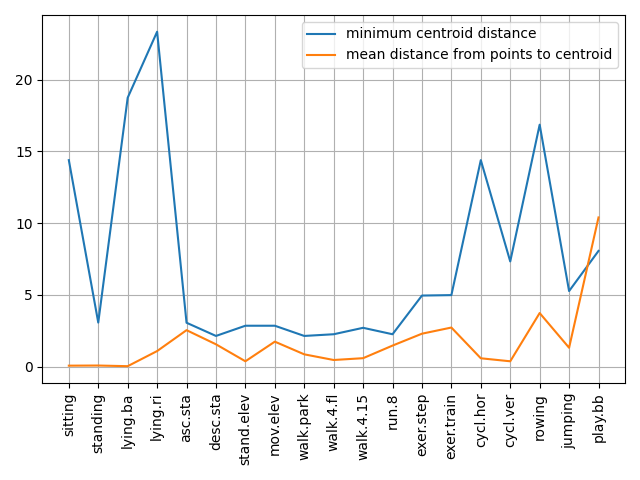
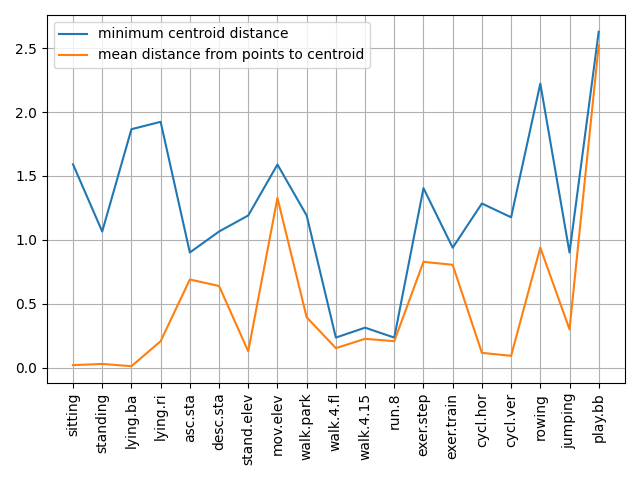
lab04: accuracy k-means

diff --git a/LAB04/data_visualization.py b/LAB04/data_visualization.py
@@ -20,6 +20,7 @@ from sklearn.preprocessing import  StandardScaler
 from sklearn.decomposition import PCA
 import sklearn.cluster as sk
 from sklearn.cluster import KMeans
+from sklearn.metrics import accuracy_score
 cm = plt.get_cmap('gist_rainbow')
 line_styles=['solid','dashed','dotted']
 #pd.set_option('display.precision', 3)
@@ -45,6 +46,7 @@ sensNames=[
         'LL_xacc', 'LL_yacc', 'LL_zacc', 
         'LL_xgyro','LL_ygyro','LL_zgyro',
         'LL_xmag', 'LL_ymag', 'LL_zmag']
+
 actNames=[
     'sitting',  # 1
     'standing', # 2
@@ -94,7 +96,8 @@ activities=list(range(1,19)) #list of indexes of activities to plot
 Num_activities=len(activities)
 NAc=19 # total number of activities
 actNamesSub=[actNamesShort[i-1] for i in activities] # short names of the selected activities
-sensors=list(range(45)) # list of sensors
+#sensors=list(range(45)) # list of sensors
+sensors = [3,4,5,6,7,8,12,13,14,15,16,17,21,22,23,24,25,26,30,31,32,33,34,35,39,40,41,42,43,44] # no acc sensors
 sensNamesSub=[sensNames[i] for i in sensors] # names of selected sensors
 Nslices=12 # number of slices to plot
 NtotSlices=60 #total number of slices
@@ -111,16 +114,16 @@ X_train = np.zeros([N_tr, len(sensors)])
 y_tr =np.zeros(N_tr)
 N_te = (NtotSlices - nTrainSlices) * NAc * 5
 X_test = np.zeros([N_te, len(sensors)])
+y_te =np.zeros(N_te)
 iter_tr = 0
 iter_te = 0
 for i in range(1, NAc+1):
     activities = [i]
     # Training Set
     x_tr=myFn.generateDF(filedir,sensNamesSub,sensors, patients,activities,slicesTrain)
-    x_tr = myFn.butter_lowpass_filter(x_tr, 1.2, 20, 2)
+    x_tr = myFn.butter_lowpass_filter(x_tr, 0.8, 25, 4)
     x_tr = myFn.averageSampling(x_tr, 25)
-    y = x_tr['activity']
-    y_tr[iter_tr:len(x_tr)+iter_tr] = y
+    y_tr[iter_tr:len(x_tr)+iter_tr] = i - 1
     x_tr=x_tr.drop(columns=['activity'])
     x_tr = x_tr.values
     X_train[iter_tr:len(x_tr)+iter_tr, :] = x_tr
@@ -128,46 +131,38 @@ for i in range(1, NAc+1):
     # Test set
     x_te=myFn.generateDF(filedir,sensNamesSub,sensors, patients,activities,slicesTest)
     x_te=x_te.drop(columns=['activity'])
+    x_te = myFn.butter_lowpass_filter(x_te, 0.8, 25, 4)
     x_te = myFn.averageSampling(x_te, 25)
+    y_te[iter_te:len(x_te)+iter_te] = i - 1
     x_te = x_te.values
     X_test[iter_te:len(x_te)+iter_te, :] = x_te
     iter_te += len(x_te)
-####################### K-Means ###################################
-kmeans = KMeans(n_clusters=NAc, n_init=10, max_iter=300, random_state=309709)
-kmeans.fit(X_train)
-y_hat_tr = kmeans.labels_
-y_hat_te = kmeans.predict(X_test)
 
-# plot centroids and stand. dev. of sensor values
+########################Centroids evaluation #############################
 print('Number of used sensors: ',len(sensors))
-n_sensors = 45
+n_sensors = len(sensors)
 centroids=np.zeros((NAc,n_sensors))# centroids for all the activities
 stdpoints=np.zeros((NAc,n_sensors))# variance in cluster for each sensor
 # Evaluate centroids and std of sensor values
 for i in range(1,NAc+1):
     activities=[i]
     x=myFn.generateDF(filedir,sensNamesSub,sensors, patients,activities,slicesTrain)
-    t = np.linspace(0, 50, 1250)
-    #plt.figure()
-    #plt.plot(t, x['T_yacc'])
-    
-    x1 = myFn.butter_lowpass_filter(x, 0.5, 50, 2)
-    x2 = myFn.butter_lowpass_filter(x, 0.5, 5, 2)
-    x3 = myFn.butter_lowpass_filter(x, 1.5, 25, 2)
-    #plt.plot(t, x1['T_yacc'], 'r')
-    #plt.plot(t, x2['T_yacc'], 'g')
-    #plt.plot(t, x3['T_yacc'], 'k')
-    #plt.show()
-    x = myFn.butter_lowpass_filter(x, 1.5, 25, 2)
+    x = myFn.butter_lowpass_filter(x, 0.8, 25, 4)   #0.8, 25, 2
     x = myFn.averageSampling(x, 25)
     x=x.drop(columns=['activity'])
-    #x = myFn.sampling(x, 50)
-    t = np.linspace(0, 50, 50)
-    plt.figure()
-    plt.plot(t, x['T_yacc'])
     centroids[i-1,:]=x.mean().values
     stdpoints[i-1]=np.sqrt(x.var().values)
 
+####################### K-Means ###################################
+kmeans = KMeans(n_clusters=NAc, init=centroids, n_init=1, max_iter=20)
+kmeans.fit(X_train)
+y_hat_tr = kmeans.labels_
+y_hat_te = kmeans.predict(X_test)
+# Evaluate accuracy
+accuracy_tr = accuracy_score(y_hat_tr, y_tr)
+accuracy_te = accuracy_score(y_hat_te, y_te)
+print("Accuracy on train: ", accuracy_tr)
+print("Accuracy on test: ", accuracy_te)
 #%% plot the measurements of each selected sensor for each of the activities
 plotSensAct = False
 if plotSensAct:
